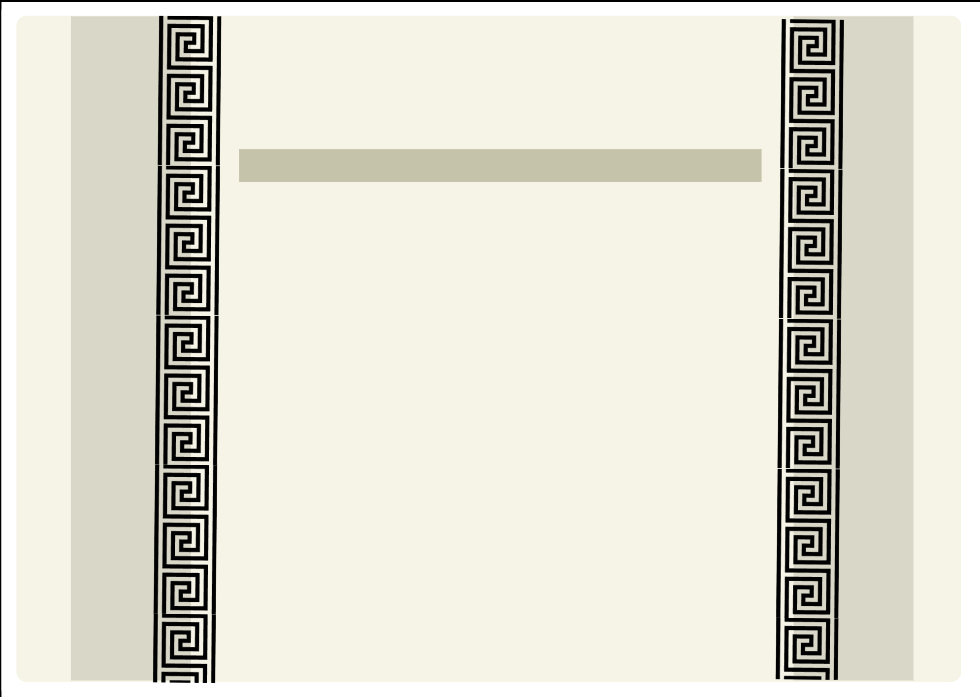
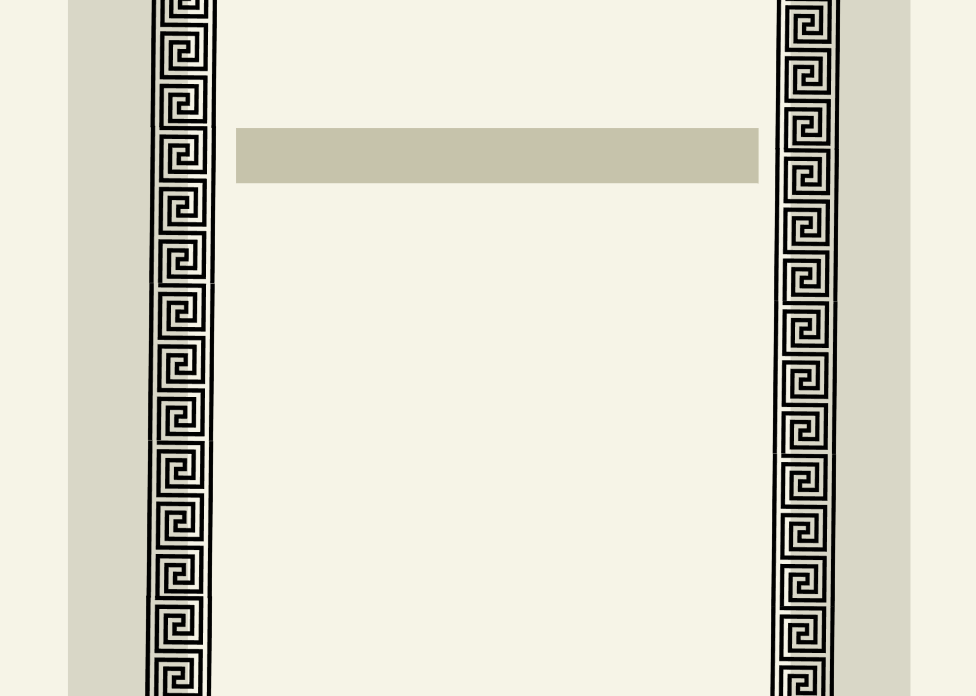
Pg início modificada+inicio.png mudado

Changed region(s): [[0.0615, 0.0, 0.9529, 1.0], [0.0, 0.0, 0.0307, 0.0302]]

diff --git a/Css/style2.css b/Css/style2.css
@@ -67,8 +67,6 @@ body {
     font-family: Georgia, 'Times New Roman', Times, serif;
 }
 
-
-
 #tela-capa,
 #tela-menu,
 #tela-principal {
@@ -105,12 +103,15 @@ body {
 
 .capa-livro h1 {
     margin: 0;
-    height: 4.7vh;
     display: flex;
+    top: 60% ;
+    font-size:190% ;
+    font-style: italic;
     align-items: center;
     justify-content: center;
-    font-size: clamp(1rem, 2.8vh, 2rem);
+    
 }
+
 
 .capa-livro p {
     margin: 6vh 0 4vh;
@@ -118,8 +119,8 @@ body {
 }
 
 .btn-abrir {
-    background-color: #d4af37;
-    color: #ceebeb;
+    background-color: #8d8a7a;
+    color: #C6C3AB;
     border: none;
     padding: 15px 40px;
     font-size: 1.2rem;
